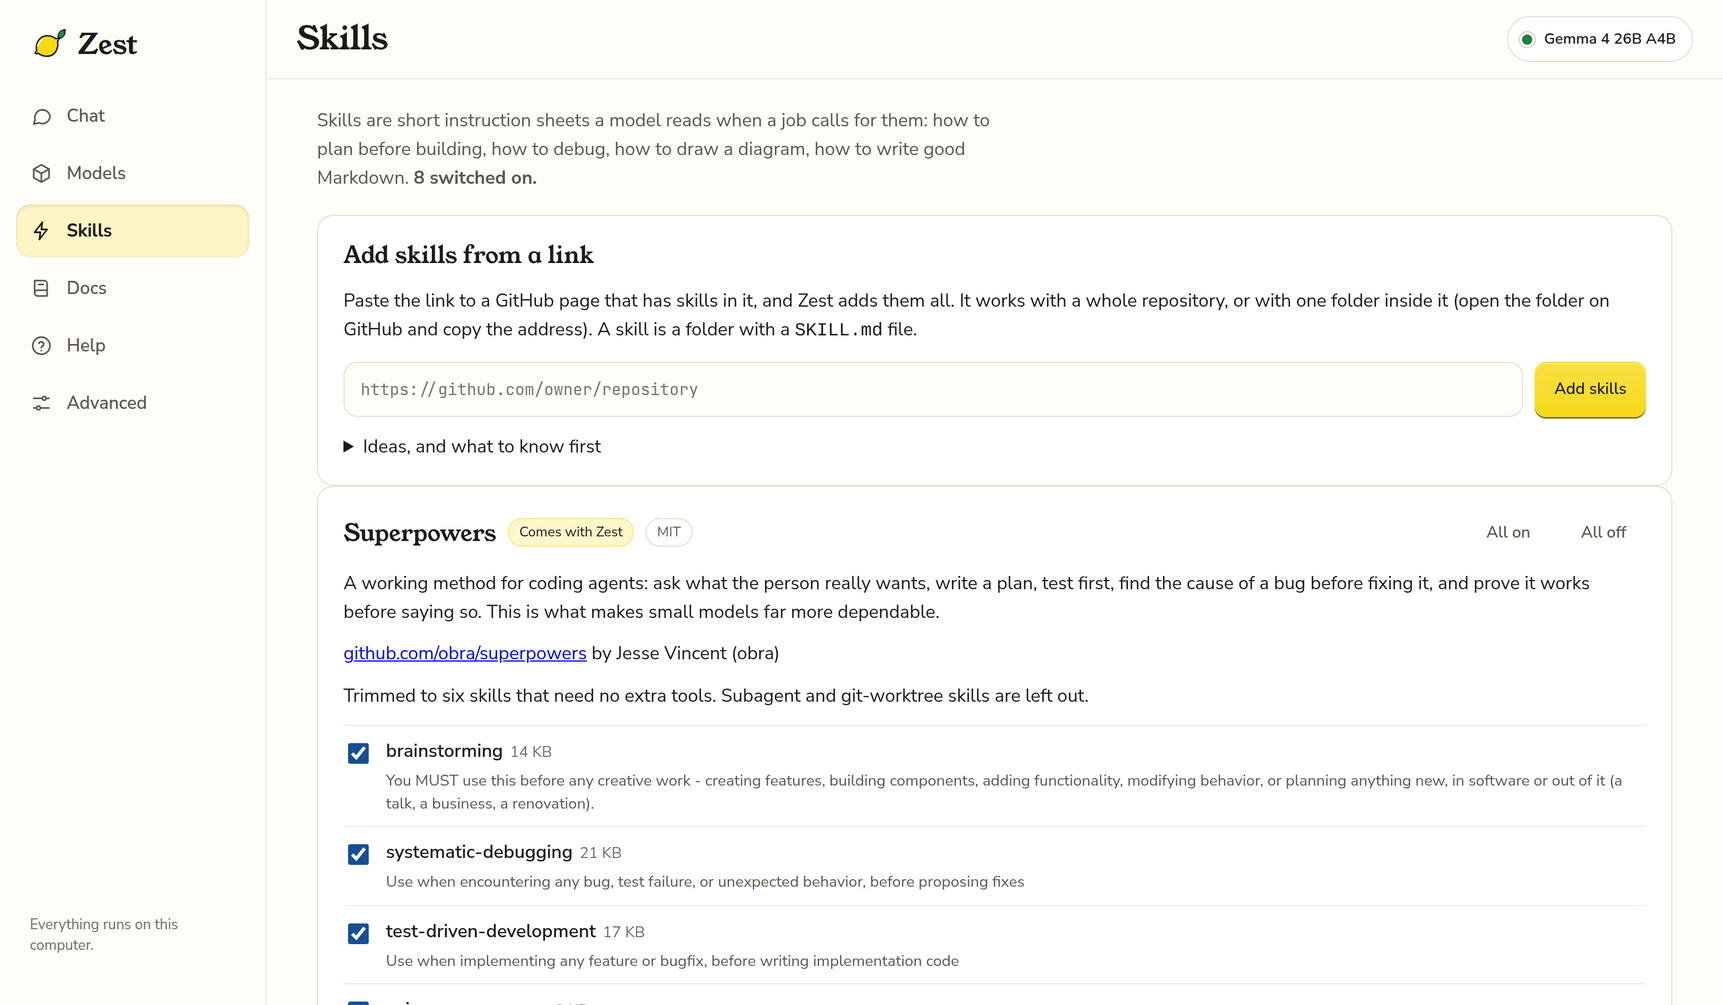
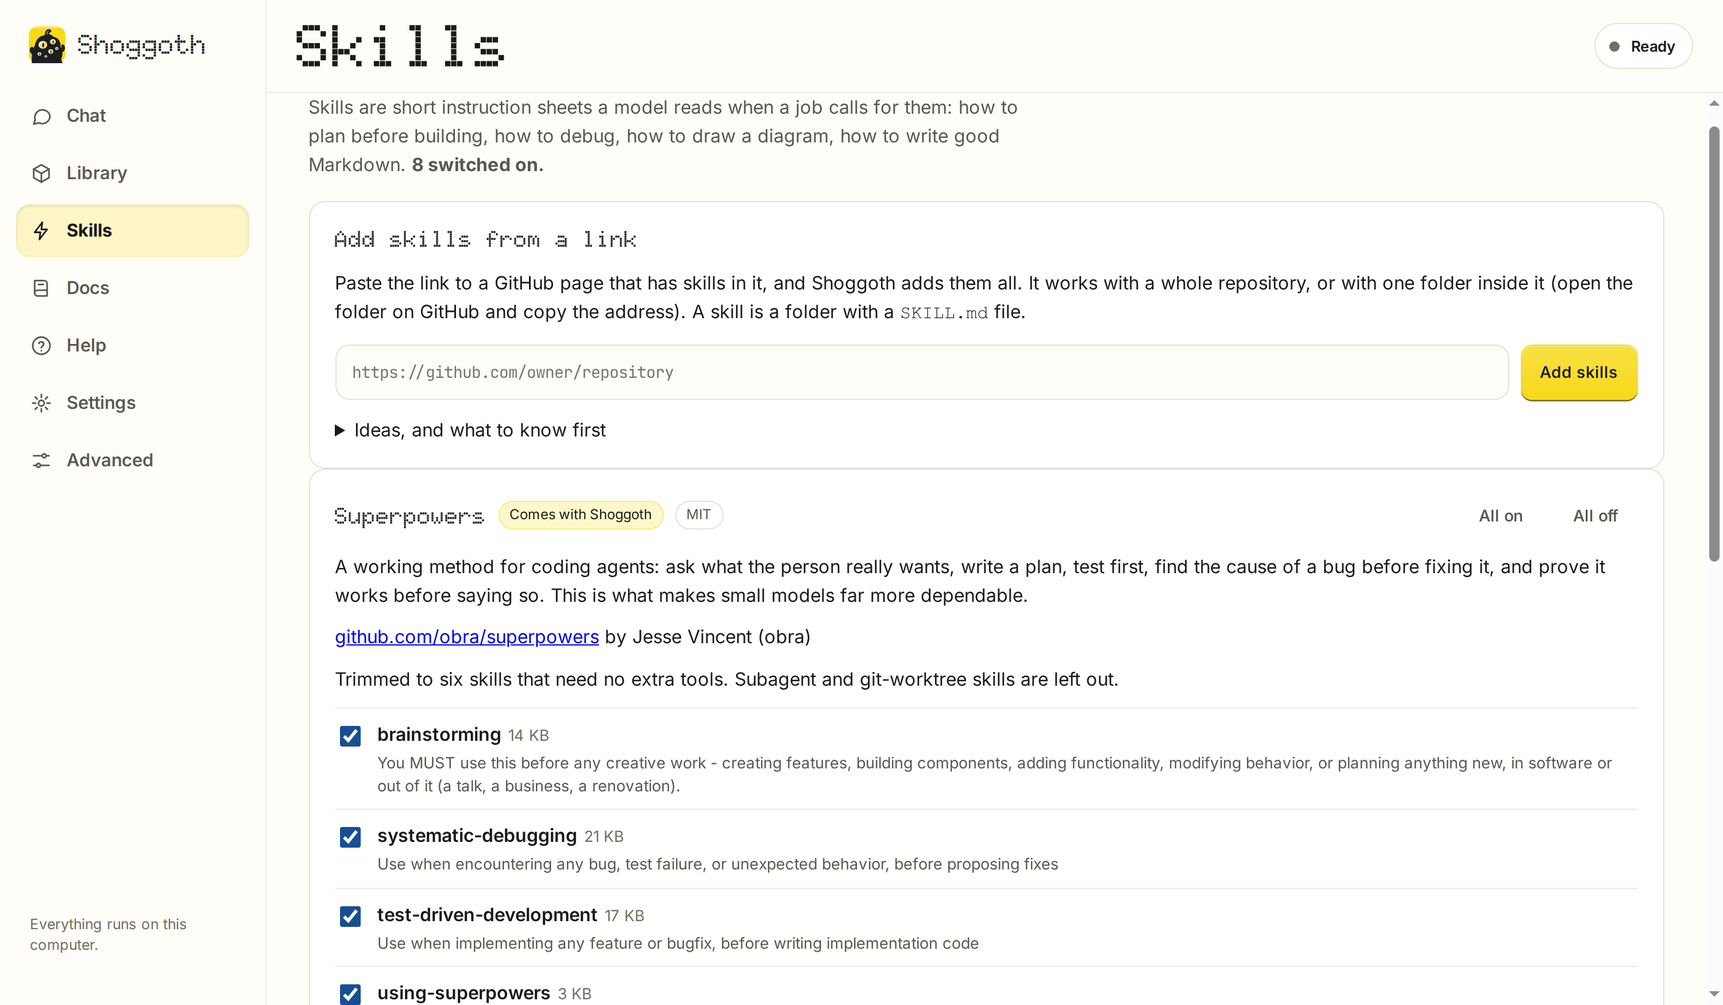
Docs for Shoggoth: model pictures, the lab benches, coming from Zest, new screenshots
Every screenshot retaken at 1500x875 from a real run (Qwen3.8 Flash on Strata
fixing a failing test), plus one of the Machine. The AppImage now ships the
OFL licences of the embedded fonts.

diff --git a/README.md b/README.md
@@ -13,11 +13,13 @@
 
 The idea is to provide a user interface that people who aren't necessarily steeped in technical know-how can still navigate to get open-weights models running on their own hardware, and then do real work with them: chat, draw diagrams, write documents, or let a model read and change the files in a folder while they watch. Download Shoggoth, and you're good to go.
 
+Shoggoth used to be called Zest. Every model it runs gets drawn as a many-eyed creature in a glass tube, wired into a bench of lab equipment. The pictures carry real information (more eyes means more context, rougher skin means heavier compression), and you can turn them off.
+
 ![Shoggoth working in a folder](docs/screenshots/work-tools.png)
 
 *Chat, working in a folder: it read the code, fixed a bug with a one-line change (shown as a diff) and ran the tests again, step by step.*
 
-**Contents:** [What you can do](#what-you-can-do-with-shoggoth) · [Install and run](#install-and-run) · [Finding your way around](#finding-your-way-around) · [Your first conversation](#your-first-conversation) · [Choosing and managing models](#choosing-and-managing-models) · [Skills](#skills) · [Use your models in other apps](#use-your-models-in-other-apps) · [Keeping everything up to date](#keeping-everything-up-to-date) · [Advanced tools](#advanced-tools) · [Themes](#themes) · [Your data and privacy](#your-data-and-privacy) · [For developers](#for-developers)
+**Contents:** [What you can do](#what-you-can-do-with-shoggoth) · [Install and run](#install-and-run) · [Finding your way around](#finding-your-way-around) · [Your first conversation](#your-first-conversation) · [Model pictures](#model-pictures) · [Choosing and managing models](#choosing-and-managing-models) · [Skills](#skills) · [Use your models in other apps](#use-your-models-in-other-apps) · [Keeping everything up to date](#keeping-everything-up-to-date) · [Advanced tools](#advanced-tools) · [Themes](#themes) · [Your data and privacy](#your-data-and-privacy) · [For developers](#for-developers)
 
 ## What you can do with Shoggoth
 
@@ -27,6 +29,7 @@ The idea is to provide a user interface that people who aren't necessarily steep
 - **Draw diagrams and write documents.** Ask for a picture or a README and get one, shown right in the chat.
 - **Teach it new tricks with skills.** Short instruction sheets that make small models far more dependable. Add more by pasting a link.
 - **Pick and manage models.** Shoggoth tells you which ones will run comfortably on your computer and downloads them for you.
+- **See what your models are.** Each model is drawn as a creature built from its own numbers, and the Hardware and Server pages show your graphics cards and the apps using them as a working lab bench.
 - **Make it look the way you like.** Fifteen themes, from soft plastic to Dracula and Nord, under **Advanced > Themes**.
 - **Use your models in other apps.** Shoggoth can share them with tools such as opencode or any app that talks to an OpenAI-style server.
 
@@ -92,9 +95,9 @@ For bigger work, press **Start a job…**. Say what should get done and how Shog
 
 ### Chat
 
-Replies stream in as they are written. The bar under the title shows which model answers, how much context it has (128k by default) and whether it is in memory, with **Load**, **Unload** and **Reload**. A reasoning model's thinking appears live above its answer and folds away when it is done. Markdown and code blocks come with copy buttons, and a small strip shows what the model is doing: 📖 reading, 🤔 thinking, ✍ writing, 🛠 working.
+Replies stream in as they are written. The bar under the title shows which model answers, how much context it has (128k by default) and whether it is in memory, with **Load**, **Unload** and **Reload**. A reasoning model's thinking appears live above its answer and folds away when it is done. Markdown and code blocks come with copy buttons. A small strip shows what the model is doing (reading, thinking, writing, working, waiting for your OK), and a line in italics under it says the same thing in a more unsettling way, always naming the model that is running.
 
-![Chat](docs/screenshots/chat.png)
+![Chat: the model's answer after it fixed a bug, with the model in its tube at the top](docs/screenshots/chat.png)
 
 ### Working in a folder
 
@@ -103,6 +106,22 @@ Every chat works in a folder (your home folder unless you choose one) and can re
 ![Shoggoth asking before it runs a command](docs/screenshots/work-approve.png)
 
 ![Reading the code, a diff of the fix, and the tests run again](docs/screenshots/work-tools.png)
+
+## Model pictures
+
+Shoggoth draws every model as a creature, made from the model itself, so the same model always looks the same:
+
+- **Eyes**: how much it remembers (its context window). More eyes, more memory.
+- **Size**: how many parameters it has.
+- **Skin**: how tightly it is compressed. Rougher skin is smaller and a little less exact.
+- **Hands holding pens**: it can use tools.
+- **Shape and colour**: models from the same family share them.
+
+The chat's model sits in a glass tube at the top of the Chat page, wired to the model bar. It stirs while the model loads, thinks and writes. Click the tube (or **Open the machine** in the model menu) to open **the Machine**: a drawer with one slot per engine, showing what is in memory, and a shelf of every model you have. You can load and unload from there.
+
+![The Machine: one slot per engine, with the Large model loaded in Strata's slot](docs/screenshots/machine.png)
+
+The **Hardware** and **Server** pages put the same creatures on a lab bench (see [Advanced tools](#advanced-tools) and [Use your models in other apps](#use-your-models-in-other-apps)). If you'd rather not see them, switch off **Show model pictures** under **Settings › Look**. Nothing else changes.
 
 ## Choosing and managing models
 
@@ -171,13 +190,13 @@ Some models are far too big for a graphics card. Shoggoth runs them anyway, thro
 
 ![Server](docs/screenshots/server.png)
 
-*Address, key and copy-paste setup for opencode, Hermes and any OpenAI-compatible app. The key is hidden until you press **Show**, including in the code samples. While an app is working you see a card with a glass that fills as it writes, a pill timeline of the last minute, and a request list. The Lemonade activity log is at the bottom of the same page.*
+*The lab bench on the Server page, just after **Send a test message**: the loaded model in its jar, a flask for the request, and the card underneath saying how long it took.*
 
-The same page shows what those apps are doing:
+At the top of the page are the address, the key (hidden until you press **Show**, including in the code samples) and copy-paste setup for opencode, Hermes and any OpenAI-compatible app. Below that, the page shows what those apps are doing:
 
-- **Right now.** A card for each request that is running, with the app's name, a glass that bubbles while the model thinks and fills with lemon as the answer is written, and a line such as "Thought for 7.2 s, about 415 words". With **Show what models are saying** on, each card also quotes the line the model is on. The count of requests today sits underneath.
-- **The last minute.** One lane per app, with a pill for each request split into reading the question (grey), thinking (dotted) and writing the answer (lemon), so you can see who was waiting for whom.
-- **Requests.** A list with the app, the model, how long it took and whether it worked, filtered by app. Shoggoth labels each app from the `User-Agent` it sends (for example "Hermes agent" or "opencode"), or from an `X-Zest-App` header if the app sets one.
+- **Right now.** A lab bench: the model in its jar, piped to a flask for each request that is running. The flask bubbles while the model thinks and fills as the answer is written. A card for each request gives the app's name and a line such as "Thought for 7.2 s, about 415 words". **Send a test message** sends one to the model that is in memory. With **Show what models are saying** on, each card also quotes the line the model is on. The count of requests today sits underneath.
+- **The last minute.** One lane per app, with a pill for each request split into reading the question (grey), thinking (dotted) and writing the answer (yellow), so you can see who was waiting for whom.
+- **Requests.** A list with the app, the model, how long it took and whether it worked, filtered by app. Shoggoth labels each app from the `User-Agent` it sends (for example "Hermes agent" or "opencode"), or from an `X-Shoggoth-App` header if the app sets one (`X-Zest-App` still works).
 - **Show what models are saying** is off by default. When on, you can open a request to read the question and answer. The text is held in memory only and is gone when Shoggoth closes.
 
 Other apps never talk to Shoggoth's own page. Shoggoth opens a second, much smaller door on its own port (13308) that serves only the chat-style `/v1` endpoints (models, chat, completions, embeddings, responses, audio, images, reranking, and loading or unloading a model). It **always asks for the key**, and pulling, deleting, installing or changing settings are not reachable through it. It listens on this computer only. **Other devices on my network** turns on listening on your local network; anyone there who has the key can then use your models, and the traffic is not encrypted, so use it on a network you trust. **Make a new key** invalidates the old one at once.
@@ -215,15 +234,15 @@ Everything under **Advanced** is optional.
 ![The Advanced menu: Server, Hardware, Engines, Engine settings, Tuning and Themes](docs/screenshots/advanced.png)
 
 - **Advanced > Server** lets other apps use your models (see below), with a live picture of what they ask for. The address and key to paste into those apps are at the top, and the Lemonade **activity log** (filter and follow mode) sits at the bottom of the same page.
-- **Advanced > Hardware** shows every device llama.cpp can see as a live VRAM tank with utilisation, temperature, power, a short history, and which processes are holding its memory. Pick which devices to use and put them in order, then apply.
+- **Advanced > Hardware** is a lab bench. Each machine at the back is one graphics card: its lights show how hard it is working, and its screen names the model on it. The beaker shows memory used across all your cards, the gauge shows the hottest card, the coil sparks as the cards work harder, and the radio has a meter for each card. Below the bench, every device llama.cpp can see is listed with its memory, load, temperature and the processes holding it. Pick which devices to use, put them in order, and apply.
 - **Advanced > Engines** has one card for each engine Shoggoth can use (Lemonade for small and medium models, Strata for large ones, and any you add): what it is, its version, whether it is running and who started it, **Check for updates** and **Update**, and **Stop it** for one Shoggoth started (never one you started yourself). Inside each card, collapsed, are the details specific to it: for Lemonade, every kind of model it runs (llama.cpp, Whisper.cpp, StableDiffusion.cpp and more) with the hardware each can use (CUDA, Vulkan, ROCm, CPU), which you can choose per kind or install; for Strata, your saved setups, connections to a Strata on another computer, and installing it. Below the cards, **The agent helper** (Pi) and **Add an engine**: put a folder with a `provider.yaml` file in the engines folder shown there and press Reload. Shoggoth asks once before an engine you added runs a program, and lists any folder it couldn't load with the line to fix. [docs/ENGINES.md](docs/ENGINES.md) is the guide to writing one ("Add an engine in ten minutes"), with `Shoggoth.AppImage providers new` and `providers check` to start and test it.
 - **Advanced > Engine settings** edits everything in Lemonade's own configuration, searchable, with a reset-to-default for every value.
 - **Advanced > Themes** changes how Shoggoth looks (see below).
 - **Settings** is where you change where models live, how long large models stay in memory and how much a chat remembers, and update everything. Its **My own server, and the first-run screen** section is where you check Lemonade's version or connect to one you run yourself; **Advanced > Engines** has backends, Strata and the agent helper. **Help > Run the welcome steps again** shows the first-run screen again.
 
-![Advanced > Hardware: each graphics card as a live VRAM tank, with utilisation, temperature and power](docs/screenshots/hardware.png)
+![Advanced > Hardware: two graphics cards as machines at the back of a lab bench, with a memory beaker, a heat gauge, a coil and a radio](docs/screenshots/hardware.png)
 
-*Advanced > Hardware: a tank for each graphics card, with its memory, load, temperature and power, and the switch and arrows that choose which cards Shoggoth uses and in what order.*
+*Advanced > Hardware with a Large model spread over two cards: an RTX 3080 and an RTX 4080 SUPER, 94% of their memory in use.*
 
 ### Using a Lemonade you already run
 
@@ -260,7 +279,7 @@ Shoggoth looks the same everywhere you use it, but you can change its finish. Op
 | The secret that lets a browser into Shoggoth's own page (file mode `600`) | `~/.config/shoggoth/ui-token` |
 | Lemonade updates you've downloaded | `~/.local/share/shoggoth/lemonade/<version>/` |
 | The built-in Lemonade's own config and the backends it installs | `~/.local/share/shoggoth/lemonade-data/` |
-| Its log (shown on the Logs page) | `~/.local/share/shoggoth/lemond.log` |
+| Its log (shown at the bottom of Advanced > Server) | `~/.local/share/shoggoth/lemond.log` |
 | Links to models you chose to bring in, and each engine's view of your Models folder | `~/.local/share/shoggoth/` (`imported-models/`, `views/`) |
 | Models you download | the folder you chose (a **Models** folder with a subfolder for each engine), or the Hugging Face cache if you kept that |
 | Skills you added and which are switched on | `~/.local/share/shoggoth/skills/` |
@@ -268,7 +287,7 @@ Shoggoth looks the same everywhere you use it, but you can change its finish. Op
 | Chat conversations, jobs, their transcripts, the folders Shoggoth has worked in (and the commands you always allow there), work copies of folders awaiting review, and Pi's configuration (rewritten at each start) | `~/.local/share/shoggoth/cowork/` |
 | Display preferences | your browser's local storage |
 
-(`XDG_CONFIG_HOME` and `XDG_DATA_HOME` are respected.) To start from scratch, delete `~/.config/shoggoth` and `~/.local/share/shoggoth`. Downloaded models are not in there unless you chose a folder inside it.
+(`XDG_CONFIG_HOME` and `XDG_DATA_HOME` are respected.) **Coming from Zest?** The first time Shoggoth starts, it moves `~/.config/zest` and `~/.local/share/zest` to these names and keeps everything in them: chats, skills, settings and keys. Apps that use a `zest-` key keep working, and old `ZEST_*` environment variables are still read. To start from scratch, delete `~/.config/shoggoth` and `~/.local/share/shoggoth`. Downloaded models are not in there unless you chose a folder inside it.
 
 ### Privacy
 
@@ -317,7 +336,7 @@ Then open <http://127.0.0.1:13306> (it opens automatically unless you pass `--no
 Shoggoth is a small Python program with no dependencies (`shoggoth/server.py` plus a few modules) and one HTML page (`shoggoth/index.html`).
 
 - `shoggoth/gateway.py` is the door for other apps and the request recorder. Both it and Shoggoth's own chat forward through one function that streams the answer back untouched while noting whether the model is waiting, thinking (`reasoning_content`, or text inside `<think>` tags) or writing.
-- `shoggoth/agent.py` runs Pi (`pi --mode rpc`, one process per task) against Lemonade through Shoggoth's own `/api/v1` proxy, and relays its JSON events to the page as server-sent events. `shoggoth/pi/zest-gate.js` is the Pi extension that makes it ask before editing or running commands. Details in [docs/COWORK.md](docs/COWORK.md).
+- `shoggoth/agent.py` runs Pi (`pi --mode rpc`, one process per task) against Lemonade through Shoggoth's own `/api/v1` proxy, and relays its JSON events to the page as server-sent events. `shoggoth/pi/zest-gate.js` (the old name is kept so existing setups find it) is the Pi extension that makes it ask before editing or running commands. Details in [docs/COWORK.md](docs/COWORK.md).
 - `shoggoth/hf.py` reads a Hugging Face repository's file list and groups GGUF files by quantisation.
 - `/api/*` is passed straight through to Lemonade, so the page needs no CORS changes. Chat uses the OpenAI-compatible `/api/v1/chat/completions` stream, and model downloads use Lemonade's background download jobs.
 - Everything Shoggoth changes in Lemonade goes through Lemonade's own HTTP API: `/internal/config` and `/internal/set` for settings, `/v1/models/{id}/options` for per-model options, `/v1/install` for backends. Shoggoth does not need the `lemonade` command-line tool.
@@ -351,6 +370,7 @@ To cut a release: bump `VERSION` in `shoggoth/server.py`, then `git tag vX.Y.Z &
 - **[Pi](https://github.com/earendil-works/pi)** (MIT) is bundled unmodified in the AppImage; its licence is included alongside it.
 - **[Lemonade](https://github.com/lemonade-sdk/lemonade)** (Apache-2.0) is bundled unmodified in the AppImage; its licence is included alongside it.
 - **[llama.cpp](https://github.com/ggml-org/llama.cpp)** (MIT) and the other backends are downloaded by Lemonade when you install them.
+- **[Doto](https://github.com/oliverlalan/Doto), [Inter](https://rsms.me/inter/) and [JetBrains Mono](https://www.jetbrains.com/lp/mono/)** (SIL Open Font License) are embedded in the page; their licences are in `docs/plans/assets/fonts` and ship in the AppImage.
 - **[Python](https://www.python.org)** (PSF licence), via a relocatable build from [python-build-standalone](https://github.com/astral-sh/python-build-standalone), is bundled so the AppImage needs no system Python.
 
 ## License

diff --git a/shoggoth/docs.md b/shoggoth/docs.md
@@ -16,10 +16,10 @@ Four things work together. You only ever see Shoggoth, but it helps to know who 
 
 ```mermaid
 flowchart LR
-    you["You"] --> zest["Shoggoth: the window you are looking at"]
-    zest --> pi["Pi: the helper that reads files and runs steps"]
+    you["You"] --> app["Shoggoth: the window you are looking at"]
+    app --> pi["Pi: the helper that reads files and runs steps"]
     pi --> eng["An engine: runs the model"]
-    zest --> eng
+    app --> eng
     eng --> model[("The model: the AI itself")]
 ```
 
@@ -37,6 +37,20 @@ The first time you open Shoggoth it gets itself ready on one screen. It asks whe
 If you pick the recommended model you will be chatting within minutes, depending on your connection.
 
 You can see the first-run screen again any time: go to **Help**, then **Run the welcome steps again**.
+
+## Model pictures
+
+Shoggoth draws every model as a creature. Each one is made from the model itself, so the same model always looks the same:
+
+- **Eyes** show how much it remembers (its context window). More eyes, more memory.
+- **Size** shows how many parameters it has.
+- **Skin** shows how tightly it is compressed. Rougher skin is smaller and a little less exact.
+- **Hands holding pens** mean it can use tools.
+- Models from the same family share a body shape and colour.
+
+The creature for the chat's model sits in a glass tube at the top of the Chat page, wired to the model bar. It wakes up when the model is loading, thinking or writing. Click the tube (or **Open the machine** in the model menu) to open **the Machine**: a drawer with one slot for each engine and a shelf of every model you have. Load and unload models there if you like seeing what is in memory.
+
+The **Hardware** and **Server** pages use the same creatures, on a lab bench. Don't like them? Turn them off under **Settings › Look**. Everything still works the same way.
 
 ## Chatting
 
@@ -182,13 +196,13 @@ The program is [Strata](https://github.com/Niko1221/Strata). Its saved setups, a
 
 ## Using your models in other apps
 
-**Advanced**, then **Server**, gives you an address and a key to paste into other tools (coding assistants, chat apps, anything that talks to an OpenAI-style server). The same page shows live what those apps are asking for. It only listens on this computer unless you turn on sharing.
+**Advanced**, then **Server**, gives you an address and a key to paste into other tools (coding assistants, chat apps, anything that talks to an OpenAI-style server). The same page shows live what those apps are asking for: the model sits in a jar on a bench, and each app's request is a flask that bubbles while the model thinks and fills as it writes. **Send a test message** shows one. It only listens on this computer unless you turn on sharing.
 
 ## Under the bonnet
 
 Everything in **Advanced** is optional.
 
-- **Hardware** shows your graphics cards filling up as models load, and lets you choose which to use.
+- **Hardware** is a lab bench. Each machine at the back is one graphics card, with lights for how hard it is working and the name of the model on it. The beaker shows memory used across all your cards, the gauge shows the hottest card, and the coil and radio show how hard they compute. Below the bench you choose which cards Shoggoth uses, and in what order.
 - **Engines** has a card for each program Shoggoth uses to run models: [Lemonade](https://lemonade-server.ai) for small and medium models, Strata for Large ones, and any you add. Each card shows its version, whether it is running and who started it, an update check, and a Stop button for ones Shoggoth started. Each card also holds that engine's own details. Lemonade's shows which hardware each kind of model uses (CUDA, Vulkan, ROCm or the processor). Strata's has your saved setups, a link to a Strata on another computer, and its installer. You can add your own engine by putting a folder with a `provider.yaml` file in the engines folder shown at the bottom of the page, then pressing **Reload**. Shoggoth asks once before an engine you added runs a program. The repository's `docs/ENGINES.md` explains how, and `providers check <folder>` (run the AppImage with those words) tells you what to fix before you reload.
 - **Engine settings** is every setting Lemonade has, searchable.
 - **Themes** changes how Shoggoth looks. **Light Touch** is the default; **Braun T3** and **Teenage Engineering** are softer and bolder takes on the same idea, and the rest borrow colour schemes from popular code editors (Dracula, Nord, Monokai Pro, GitHub Light and more). Nothing moves when you switch, and your choice is remembered on this computer.
@@ -205,6 +219,8 @@ Everything stays on your computer.
 - **Settings and keys** are in `~/.config/shoggoth/`.
 
 Shoggoth goes online only to: download models you ask for, check for Shoggoth, engine and Pi updates (you can turn that off), and fetch skills when you paste a link. Pi runs offline and sends nothing anywhere. To start from scratch, delete `~/.config/shoggoth` and `~/.local/share/shoggoth`.
+
+**Coming from Zest?** Shoggoth used to be called Zest. The first time it starts, it moves `~/.config/zest` and `~/.local/share/zest` to the new names, and keeps your chats, skills, settings and keys. Apps that use a `zest-` key keep working.
 
 ## When something goes wrong
 
